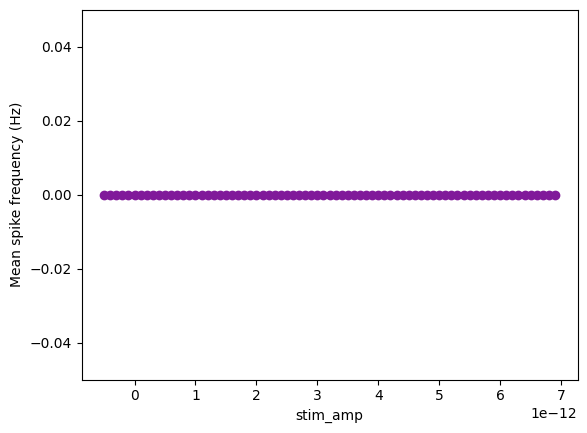
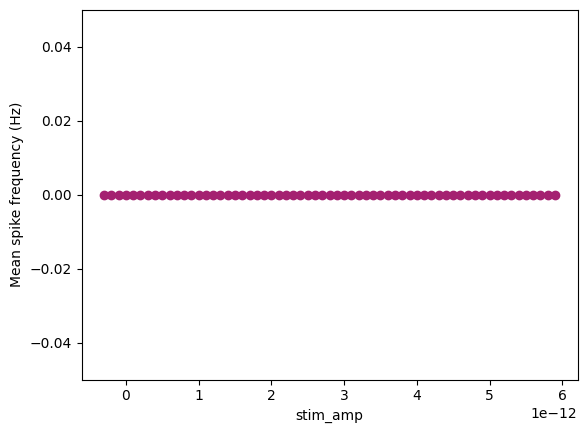
Better testing of parameter sweep functionality

diff --git a/examples/parametersweep/Sweep.py b/examples/parametersweep/Sweep.py
@@ -248,6 +248,56 @@ if __name__ == "__main__":
             print("Showing plots")
             plt.show()
 
+    elif "-x" in sys.argv:
+
+        fixed = {"dt": 0.025, "duration": 3000, "stim_delay": "500ms", "stim_duration": "2000ms"}
+
+        quick = False
+        # quick=True
+
+        vary = {"stim_amp": ["%spA" % (i / 1) for i in range(-3, 6, 1)]}
+
+        type = "GenericMuscleCell"
+        type = "GenericNeuronCell"
+        type = "GenericNeuronCellX"
+        # type='poolosyn'
+        config = "IClamp"
+        # config = 'PoissonFiringSynapse'
+
+        nmllr = NeuroMLliteRunner(
+            "Sim_%s_%s.json" % (config, type), simulator="jNeuroML"
+        )
+
+        if quick:
+            pass
+
+        ps = ParameterSweep(
+            nmllr,
+            vary,
+            fixed,
+            num_parallel_runs=1,
+            plot_all=True,
+            save_plot_all_to="firing_rates_%s.png" % type,
+            heatmap_all=True,
+            save_heatmap_to="heatmap_%s.png" % type,
+            heatmap_lims=heatmap_lims,
+            show_plot_already=False,
+        )
+
+        report = ps.run()
+        ps.print_report()
+
+        ps.plotLines('stim_amp','average_last_1percent',save_figure_to='average_last_1percent_%s.png'%type)
+
+        # ps.plotLines('dt','mean_spike_frequency',save_figure_to='mean_spike_frequency_%s.png'%type, logx=True)
+        # ps.plotLines('number_per_cell','mean_spike_frequency',save_figure_to='poisson_mean_spike_frequency_%s.png'%type)
+
+        import matplotlib.pyplot as plt
+
+        if "-nogui" not in sys.argv:
+            print("Showing plots")
+            plt.show()
+
     else:
         fixed = {"dt": 0.025, "duration": 3000}
 
@@ -278,6 +328,7 @@ if __name__ == "__main__":
 
         type = "GenericMuscleCell"
         type = "GenericNeuronCell"
+        type = "GenericNeuronCellX"
         # type='poolosyn'
         config = "IClamp"
         # config = 'PoissonFiringSynapse'

diff --git a/examples/parametersweep/GenerateExamples.py b/examples/parametersweep/GenerateExamples.py
@@ -30,15 +30,21 @@ def generate(cell, duration=3000, config="IClamp", parameters=None):
         if not parameters:
             parameters = {}
             parameters["stim_amp"] = "350pA"
+            
+        parameters["stim_delay"] = "2000ms"
+        parameters["stim_duration"] = "6000ms"
 
         if cell_id is not "GenericNeuronCellX":
+
+            parameters["stim_delay"] = "500ms"
+            parameters["stim_duration"] = "2000ms"
             input_source = InputSource(
                 id="iclamp_0",
                 neuroml2_input="PulseGenerator",
                 parameters={
                     "amplitude": "stim_amp",
-                    "delay": "500ms",
-                    "duration": "2000ms",
+                    "delay": "stim_delay",
+                    "duration": "stim_duration",
                 },
             )
         else:
@@ -47,8 +53,8 @@ def generate(cell, duration=3000, config="IClamp", parameters=None):
                 neuroml2_input="PulseGenerator",
                 parameters={
                     "amplitude": "stim_amp",
-                    "delay": "2000ms",
-                    "duration": "6000ms",
+                    "delay": "stim_delay",
+                    "duration": "stim_duration",
                 },
             )
 
@@ -81,9 +87,8 @@ def generate(cell, duration=3000, config="IClamp", parameters=None):
     )
 
     if cell_id == "GenericNeuronCellX":
-        sim.record_traces = {}
+        sim.record_traces={"all": "*"}
         sim.record_variables = {
-            "v": {"all": "*"},
             "state": {"all": "*"},
             "output": {"all": "*"},
         }
